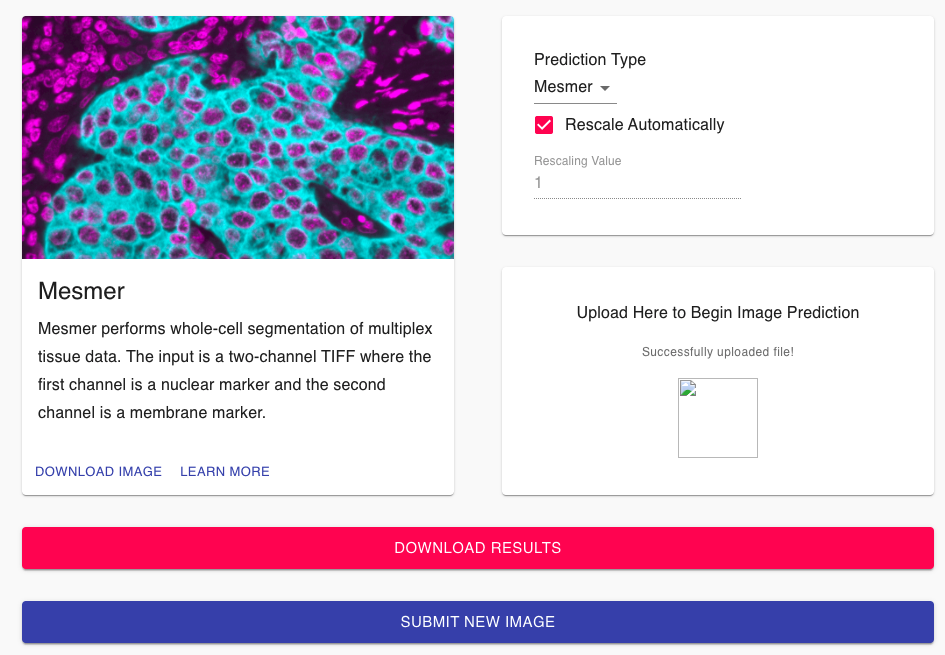
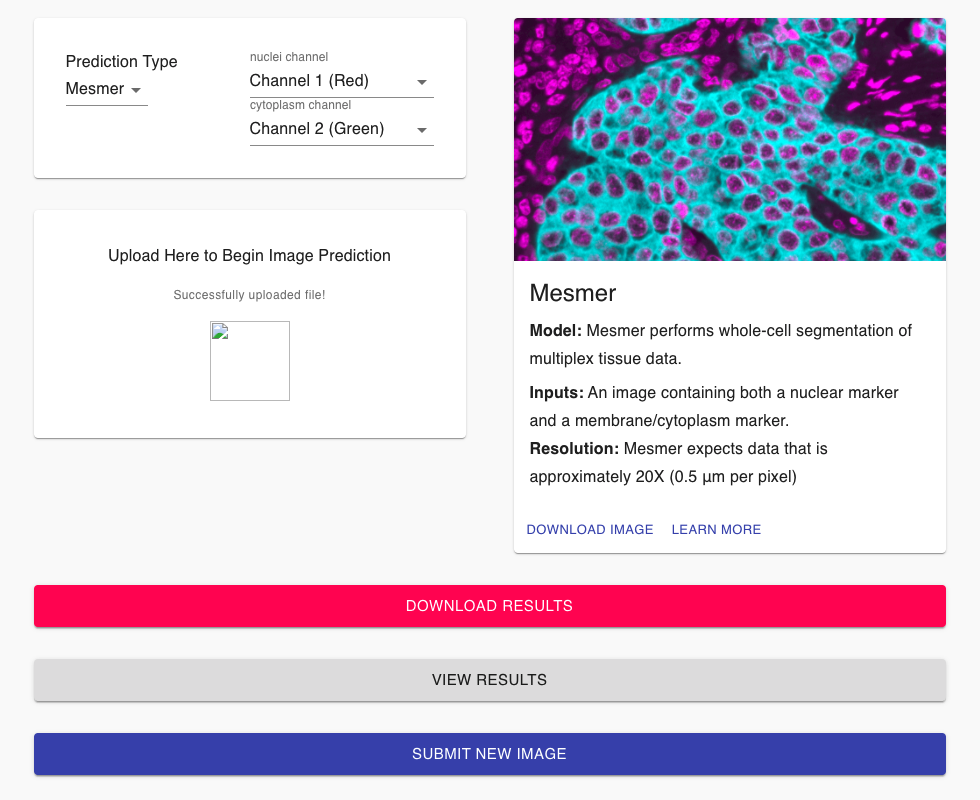
Update README with new deepcell.org/predict page (#38)
* new example images

* More detailed description of inputs and outputs

* Switch from model to pipeline

diff --git a/pretrained_models/README.md b/pretrained_models/README.md
@@ -23,7 +23,17 @@ Each of the models we host has slightly different requirements for input data. P
 
 ### Mesmer segmentation model
 
-The Mesmer model performs whole-cell segmentation of tissue imaging data. The input to the model is two-channel images. The first channel must be a nuclear channel (such as DAPI). The second channel must be a membrane or cytoplasmic channel (such as E-Cadherin).  
+The Mesmer model performs whole-cell segmentation of multiplexed tissue imaging data. 
+
+Data format: The Mesmer model expects two channels of imaging data. The first channel must be a nuclear channel (such as DAPI). The second channel must be a membrane or cytoplasmic channel (such as E-Cadherin). If you did not acquire a membrane channel in a particular experiment, you instead supply an empty channel and the model will default to nuclear segmentation for the nuclei in the image. 
+
+Image types: The Mesmer model was trained on [TissueNet](https://datasets.deepcell.org/), and thus is optimized for segmenting multiplexed tissue samples. It will **not** perform well on data from other modalties, such as H&E, IHC, cell culture, etc. 
+
+Image resolution: For optimal results, the supplied data should have a physical size of 0.5um per pixel. 
+
+Outputs: The Mesmer model produces two segmentation masks. The first segmentation mask contains the whole-cell predictions, and the second contains the nuclear predictions. Within the masks, each cell is assigned a unique integer value, with the pixels which belong to each cell being given that value. 
+
+Note: The DeepCell.org predict page allows users to specify which channel is the nuclear channel and which is the membrane channel, thus supporting data that is not properly formatted. However, all of the other ways to access the Mesmer model (see [Running pre-trained models in the cloud](#running-pre-trained-models-in-the-cloud) and [Running pre-trained models locally](#running-pre-trained-models-locally)) expect the input data to be properly formatted. 
 
 <table width="700" border="1" cellpadding="5">
 
@@ -93,7 +103,7 @@ Generating data from the website is quite easy.
 
 ![image](resources/DeepCell_website_predict.png)
 
-2. This will take you to the image upload interface. The default model is `Mesmer`. Before submitting your image, make sure you understand [the available models and data formatting requirements](#formatting-data-for-web-based-models). Upload your image by dragging it into the upload box, or by clicking and then browsing to find your image.  
+2. This will take you to the image upload interface. The default pipeline is `Mesmer`. Before submitting your image, make sure you understand [the available models and data formatting requirements](#formatting-data-for-pre-trained-models). Upload your image by dragging it into the upload box, or by clicking within the box and then browsing to find your image. If you'd like to use our example image, click the 'Download Image' button. 
 
 ![image](resources/DeepCell_website_upload.png)
 
@@ -101,7 +111,7 @@ Generating data from the website is quite easy.
 
 ![image](resources/DeepCell_website_submit.png)
 
-4. Once complete, you can download the results, and then process additional images.  
+4. Once complete, you can either press Download to view the segmentations locally or press View to open DeepCell Label to view them interactively.  
 
 ![image](resources/DeepCell_website_download.png)
 
